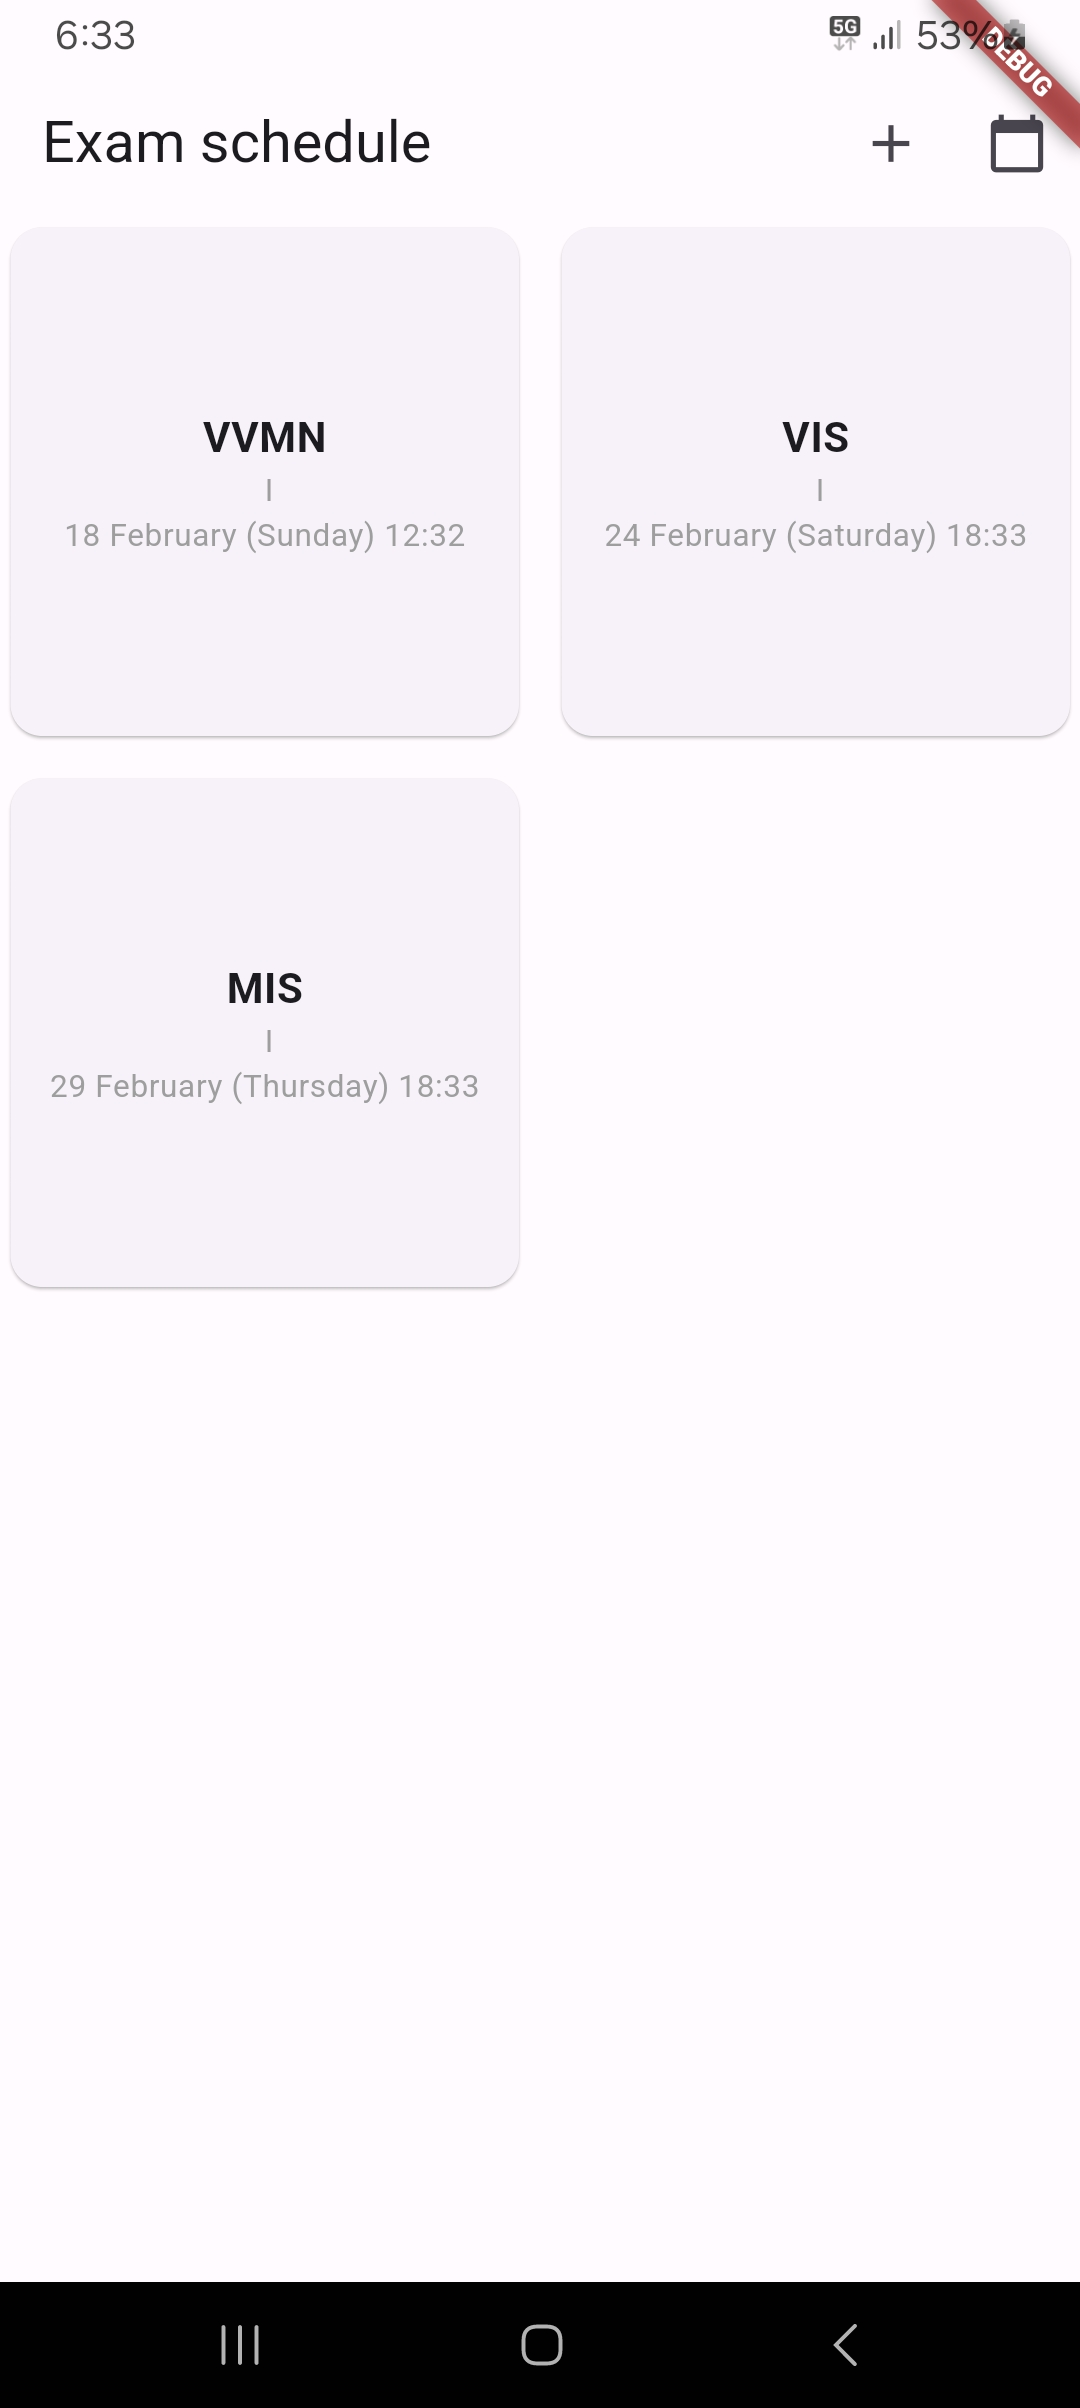
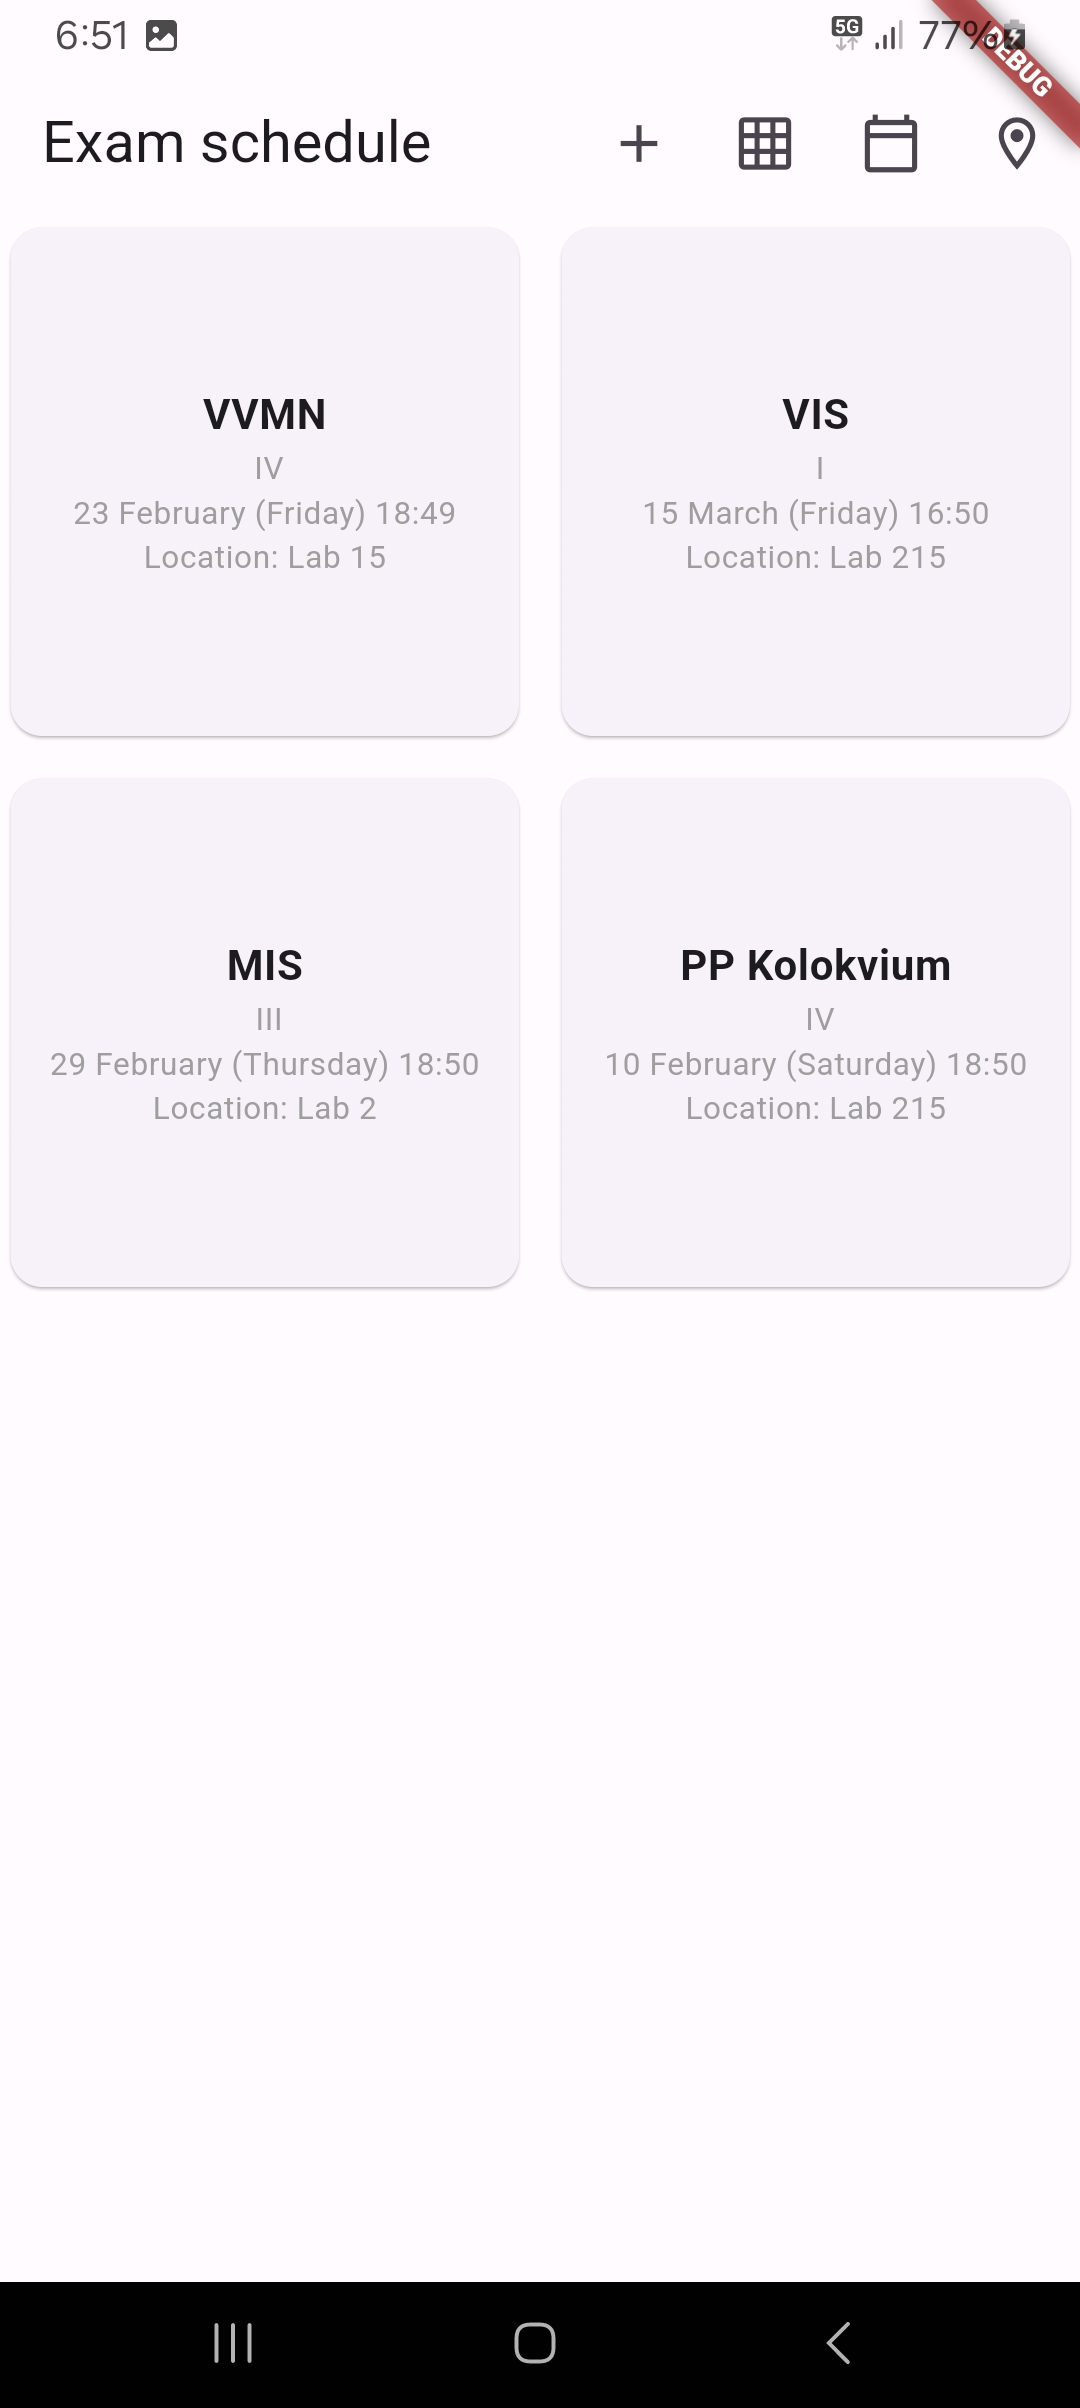
lab5

diff --git a/lib/main.dart b/lib/main.dart
@@ -39,10 +39,13 @@ class MyHomePage extends StatefulWidget {
 
 class _MyHomePageState extends State<MyHomePage> {
   bool isGridView = false;
+  bool isCalendarView = true;
+  bool isGroupedView = false;
   DateTime _focusedDay = DateTime.now();
   List<SubjectData> subjects = [];
 
   late Map<DateTime, List<SubjectData>> subjectsByDate;
+  late Map<String, List<SubjectData>> subjectsByLocation;
   bool subjectsLoaded = false;
 
   @override
@@ -52,6 +55,7 @@ class _MyHomePageState extends State<MyHomePage> {
       if (loadedSubjects != null) {
         subjects = loadedSubjects;
         subjectsByDate = _groupSubjectsByDate(subjects);
+        subjectsByLocation = _groupSubjectsByLocation(subjects);
         setState(() {
           subjectsLoaded = true;
         });
@@ -81,9 +85,27 @@ class _MyHomePageState extends State<MyHomePage> {
     prefs.setString('subjects', subjectsJson);
   }
 
-  void _toggleView() {
+  void setGridView() {
     setState(() {
-      isGridView = !isGridView;
+      isGridView = true;
+      isCalendarView = false;
+      isGroupedView = false;
+    });
+  }
+
+  void setCalendarView() {
+    setState(() {
+      isGridView = false;
+      isCalendarView = true;
+      isGroupedView = false;
+    });
+  }
+
+  void setLocationView() {
+    setState(() {
+      isGridView = false;
+      isCalendarView = false;
+      isGroupedView = true;
     });
   }
 
@@ -98,16 +120,10 @@ class _MyHomePageState extends State<MyHomePage> {
       subjects.add(updatedData);
     }
 
-
     subjectsByDate = _groupSubjectsByDate(subjects);
-
-
+    subjectsByLocation = _groupSubjectsByLocation(subjects);
     await _saveSubjectsToPrefs(subjects);
-
-
     _scheduleNotificationsForExams(subjects);
-
-
     setState(() {});
   }
 
@@ -171,6 +187,21 @@ class _MyHomePageState extends State<MyHomePage> {
   }
 
 
+  Map<String, List<SubjectData>> _groupSubjectsByLocation(List<SubjectData> subjects) {
+    Map<String, List<SubjectData>> groupedSubjects = {};
+
+    for (var subject in subjects) {
+      String location = subject.location;
+
+      if (groupedSubjects.containsKey(location)) {
+        groupedSubjects[location]!.add(subject);
+      } else {
+        groupedSubjects[location] = [subject];
+      }
+    }
+
+    return groupedSubjects;
+  }
 
   void _onDaySelected(DateTime selectedDay, DateTime focusedDay) {
 
@@ -215,6 +246,7 @@ class _MyHomePageState extends State<MyHomePage> {
     String editedName = '';
     String editedYear = SubjectData.validYears.first;
     DateTime editedDateTime = DateTime.now();
+    String editedLocation = '';
     bool isSaveButtonEnabled = false;
     showDialog(
       context: context,
@@ -332,6 +364,15 @@ class _MyHomePageState extends State<MyHomePage> {
                       child: const Text('Edit time', style: TextStyle(fontSize: 12.0)),
                     ),
                   ),
+                  const SizedBox(height: 8.0),
+                  TextFormField(
+                    decoration: const InputDecoration(labelText: 'Location'),
+                    onChanged: (value) {
+                      setState(() {
+                        editedLocation = value;
+                      });
+                    },
+                  )
                 ],
               ),
               actions: [
@@ -349,6 +390,7 @@ class _MyHomePageState extends State<MyHomePage> {
                           name: editedName,
                           year: editedYear,
                           dateTime: editedDateTime,
+                          location: editedLocation,
                         ),
                         null,
                       );
@@ -382,8 +424,16 @@ class _MyHomePageState extends State<MyHomePage> {
             icon: const Icon(Icons.add),
           ),
           IconButton(
-            onPressed: _toggleView,
-            icon: Icon(isGridView ? Icons.calendar_today : Icons.grid_on),
+            onPressed: setGridView,
+            icon: Icon(isGridView ? Icons.grid_on : Icons.grid_on_outlined),
+          ),
+          IconButton(
+            onPressed: setCalendarView,
+            icon: Icon(isCalendarView ? Icons.calendar_today : Icons.calendar_today_outlined),
+          ),
+          IconButton(
+            onPressed: setLocationView,
+            icon: Icon(isGroupedView ? Icons.location_on : Icons.location_on_outlined),
           ),
         ],
       ),
@@ -418,7 +468,7 @@ class _MyHomePageState extends State<MyHomePage> {
             index: index,
           );
         },
-      )
+      ) : isGroupedView ? _buildGroupedView()
           : TableCalendar(
         focusedDay: _focusedDay,
         firstDay: DateTime(2000),
@@ -448,12 +498,33 @@ class _MyHomePageState extends State<MyHomePage> {
       ),
     );
   }
+
+
+  Widget _buildGroupedView() {
+    return ListView(
+      children: subjectsByLocation.keys.map((location) {
+        return ExpansionTile(
+          title: Text(location),
+          children: subjectsByLocation[location]!.map((subject) {
+            return ListTile(
+              title: Text(subject.name),
+              subtitle: Text(
+                DateFormat('d MMMM (EEEE) HH:mm').format(subject.dateTime),
+              ),
+
+            );
+          }).toList(),
+        );
+      }).toList(),
+    );
+  }
 }
 
 class SubjectData {
   String name;
   String year;
   DateTime dateTime;
+  String location;
 
   static const List<String> validYears = ['I', 'II', 'III', 'IV'];
 
@@ -461,6 +532,7 @@ class SubjectData {
     required this.name,
     required this.year,
     required this.dateTime,
+    required this.location,
   });
 
 
@@ -469,6 +541,7 @@ class SubjectData {
       'name': name,
       'year': year,
       'dateTime': dateTime.toIso8601String(),
+      'location': location,
     };
   }
 
@@ -478,6 +551,7 @@ class SubjectData {
       name: json['name'],
       year: json['year'],
       dateTime: DateTime.parse(json['dateTime']),
+      location: json['location'],
     );
   }
 }
@@ -503,12 +577,14 @@ class _SubjectWidgetState extends State<SubjectWidget> {
   late String _editedName;
   late String _editedYear;
   late DateTime _editedDateTime;
+  late String _editedLocation;
 
   @override
   void initState() {
     super.initState();
     _editedName = widget.subjectData.name;
     _editedDateTime = widget.subjectData.dateTime;
+    _editedLocation = widget.subjectData.location;
   }
 
   @override
@@ -539,6 +615,10 @@ class _SubjectWidgetState extends State<SubjectWidget> {
               DateFormat('d MMMM (EEEE) HH:mm').format(widget.subjectData.dateTime),
               style: const TextStyle(fontSize: 12.0, color: Colors.grey),
             ),
+            Text(
+              'Location: ${widget.subjectData.location}',
+              style: const TextStyle(fontSize: 12.0, color: Colors.grey),
+            ),
           ],
         ),
       ),
@@ -561,7 +641,7 @@ class _SubjectWidgetState extends State<SubjectWidget> {
             ),
             ElevatedButton(
               onPressed: () {
-                widget.onChangesSaved(SubjectData(name: '', year: '', dateTime: DateTime.now()), widget.index);
+                widget.onChangesSaved(SubjectData(name: '', year: '', dateTime: DateTime.now(), location: ''), widget.index);
                 Navigator.pop(context);
               },
               child: const Text('Delete'),
@@ -576,6 +656,7 @@ class _SubjectWidgetState extends State<SubjectWidget> {
     _editedName = widget.subjectData.name;
     _editedYear = widget.subjectData.year;
     _editedDateTime = widget.subjectData.dateTime;
+    _editedLocation = widget.subjectData.location;
     bool isSaveButtonEnabled = false;
 
     showDialog(
@@ -671,27 +752,40 @@ class _SubjectWidgetState extends State<SubjectWidget> {
                     ),
                   ),
                   const SizedBox(height: 8.0),
-                  ElevatedButton(
-                    onPressed: () async {
-                      TimeOfDay? picked = await showTimePicker(
-                        context: context,
-                        initialTime: TimeOfDay.fromDateTime(_editedDateTime),
-                      );
+                  Flexible(
+                    child:
+                    ElevatedButton(
+                      onPressed: () async {
+                        TimeOfDay? picked = await showTimePicker(
+                          context: context,
+                          initialTime: TimeOfDay.fromDateTime(_editedDateTime),
+                        );
 
-                      if (picked != null) {
-                        setState(() {
-                          _editedDateTime = DateTime(
-                            _editedDateTime.year,
-                            _editedDateTime.month,
-                            _editedDateTime.day,
-                            picked.hour,
-                            picked.minute,
-                          );
-                        });
-                      }
-                    },
-                    child: const Text('Edit time', style: TextStyle(fontSize: 12.0)),
+                        if (picked != null) {
+                          setState(() {
+                            _editedDateTime = DateTime(
+                              _editedDateTime.year,
+                              _editedDateTime.month,
+                              _editedDateTime.day,
+                              picked.hour,
+                              picked.minute,
+                            );
+                          });
+                        }
+                      },
+                      child: const Text('Edit time', style: TextStyle(fontSize: 12.0)),
+                    )
                   ),
+                  const SizedBox(height: 8.0),
+                  TextFormField(
+                    initialValue: _editedLocation,
+                    decoration: const InputDecoration(labelText: 'Location'),
+                    onChanged: (value) {
+                      setState(() {
+                        _editedLocation = value;
+                      });
+                    },
+                  )
                 ],
               ),
               actions: [
@@ -709,6 +803,7 @@ class _SubjectWidgetState extends State<SubjectWidget> {
                         name: _editedName,
                         year: _editedYear,
                         dateTime: _editedDateTime,
+                        location: _editedLocation,
                       ),
                       widget.index,
                     );

diff --git a/README.md b/README.md
@@ -1,13 +1,15 @@
-# mis_lab4
+# mis_lab5
 
-Четврта лабораториска вежба по Мобилни информациски системи
+Петта лабораториска вежба по Мобилни информациски системи
 
-Додадени локални нотификации за потсетување за испити/колоквиуми.
+Додадена опција за избирање локација за потсетникот (текстуално поле).
+
 <img src='img1.jpg' width='300'>
+
+Локацијата се прикажува и во другите погледи. 
+
 <img src='img2.jpg' width='300'>
-Додаден поглед со календар (може да се менува помеѓу grid-от и календарот).
+
+Додаден поглед каде се прикажани потсетниците групирани според локација.
+
 <img src='img3.jpg' width='300'>
-При клик на датум во календарот (ако има испити за тој датум).
-<img src='img5.jpg' width='300'>
-Ако нема додадено испити/колоквиуми.
-<img src='img4.jpg' width='300'>
